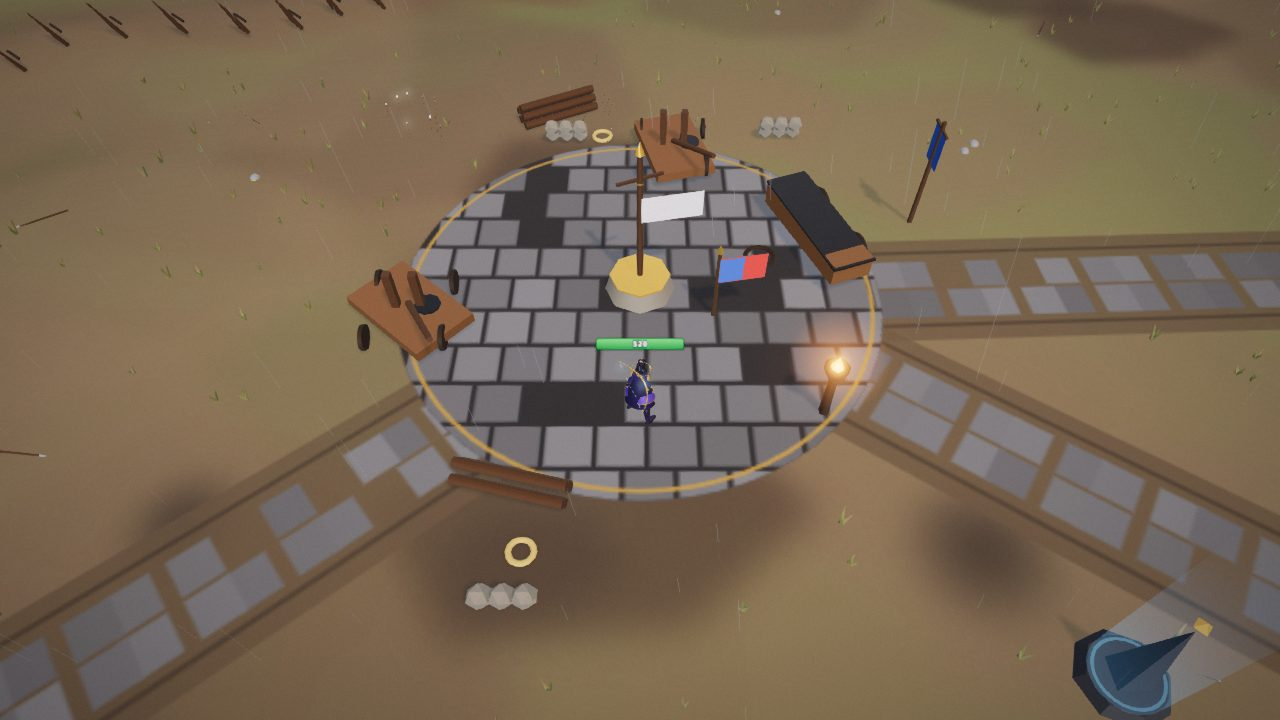
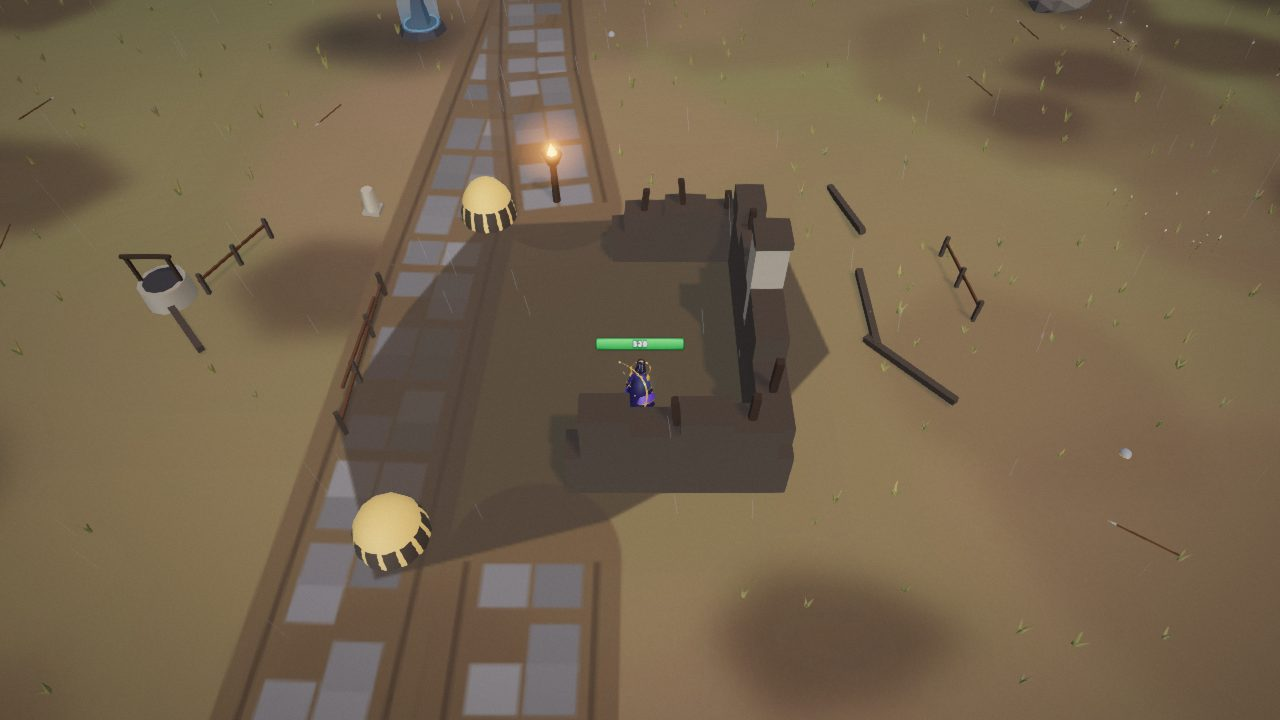
Climb to 50, the War: pictures of every kind of place (hospital, keep, farm, mill, wagons, the siege gate), the war itself (the crimson squad fighting an azure pack) and the stake hedge at the edge; the burned farm's rafters as charred stubs, the hospital's white a shade down; floor 41 run again on 

diff --git a/src/tower/world/warZone.ts b/src/tower/world/warZone.ts
@@ -236,9 +236,9 @@ function materials(own: { dispose(): void }[]) {
   return {
     rockA: mat(0x5e5a58, 0.92, { flatShading: true }), rockB: mat(0x6c6660, 0.92, { flatShading: true }), rockC: mat(0x4c4a4c, 0.92, { flatShading: true }),
     stone: mat(0x7a766e, 0.85), charred: mat(0x3a3430, 0.9), wood: mat(0x4a3220, 0.72), darkWood: mat(0x2c211a, 0.8), plank: mat(0x6b4a2e, 0.75),
-    lacquer: mat(0x1d1b21, 0.45), cream: mat(0xd8cfb4, 0.85, { side: THREE.DoubleSide }), white: mat(0xe8e2d2, 0.85, { side: THREE.DoubleSide }),
+    lacquer: mat(0x1d1b21, 0.45), cream: mat(0xd8cfb4, 0.85, { side: THREE.DoubleSide }), white: mat(0xb8b2a4, 0.9, { side: THREE.DoubleSide }),
     // the tents' canvas a shade down from the cream: lit by the low sun, cream and white tents bloomed to a white glare
-    canvas: mat(0x9e9480, 0.95, { side: THREE.DoubleSide }), linen: mat(0xb4ae9e, 0.95, { side: THREE.DoubleSide }),
+    canvas: mat(0x9e9480, 0.95, { side: THREE.DoubleSide }), linen: mat(0xa49e90, 0.95, { side: THREE.DoubleSide }),
     crimson: mat(0x9a2c2c, 0.8, { side: THREE.DoubleSide }), azure: mat(0x2c4c9a, 0.8, { side: THREE.DoubleSide }),
     steel: mat(0x8a8e98, 0.42, { metalness: 0.55 }), iron: mat(0x2a2c32, 0.55, { metalness: 0.5 }), straw: mat(0xb89a5a, 0.9), sack: mat(0x9a8a66, 0.9),
     gold: mat(0xc9a24a, 0.32, { metalness: 0.85, emissive: 0xffb050, emissiveIntensity: 0.18 }),
@@ -474,8 +474,8 @@ export function buildWarZone(look: WarLook): { group: THREE.Group; update(dt: nu
             kit.add(mat, box(r * 2, hh, len / k + 0.02), x, h * 0.55, z, yaw);
           }
           if (kind === 'farmwall') {
-            // the roof burned away: charred rafters still leaning from the wall's top, and a chimney stack on the long wall
-            for (const t of [0.2, 0.55, 0.85]) kit.add(M.darkWood, box(0.18, 0.18, 4.2).translate(0, 0, 2.1), o.ax + (o.bx - o.ax) * t, h * 0.62, o.az + (o.bz - o.az) * t, yaw + Math.PI / 2 + (rnd() - 0.5) * 0.3, 1, 1, 1, 0.42 + rnd() * 0.25);
+            // the roof burned away: the charred stubs of its uprights on the wall's top, and a chimney stack on the long wall
+            for (const t of [0.15, 0.5, 0.85]) kit.add(M.darkWood, box(0.2, 1.1 + rnd() * 0.9, 0.2), o.ax + (o.bx - o.ax) * t, h * 0.6, o.az + (o.bz - o.az) * t, yaw, 1, 1, 1, (rnd() - 0.5) * 0.25);
             if (len > 7) kit.add(M.stone, box(0.9, h + 1.6, 0.9), mx, 0, mz, yaw).add(M.charred, box(1.0, 0.25, 1.0), mx, h + 1.6, mz, yaw);
           }
         } else {

diff --git a/src/tower/world/warDepth.ts b/src/tower/world/warDepth.ts
@@ -40,7 +40,7 @@ const segDist = (px: number, pz: number, s: Seg) => {
 /** The depth's colours (the heroes' palette, STYLE.md, and the armies' two): each part one flat colour, carried in its vertices. */
 const PALETTE = {
   wood: '#4a3220', dark: '#2c211a', plank: '#6b4a2e', stone: '#7a766e', mile: '#8a8478', rubble: '#6c6860', charred: '#3a3430',
-  steel: '#8a8e98', iron: '#2a2c32', cream: '#d8cfb4', white: '#e8e2d2', straw: '#b89a5a', sack: '#9a8a66', rope: '#b89a5a',
+  steel: '#8a8e98', iron: '#2a2c32', cream: '#d8cfb4', white: '#b8b2a4', straw: '#b89a5a', sack: '#9a8a66', rope: '#b89a5a',
   crimson: '#9a2c2c', azure: '#2c4c9a', leaf: '#3e4a30', bark: '#3a3028', canvas: '#c8bea4', hill: '#56604a',
 } as const;
 type Key = keyof typeof PALETTE;

diff --git a/docs/tower/climb50/war/README.md b/docs/tower/climb50/war/README.md
@@ -12,9 +12,18 @@ on the other, with watch fires on the hilltops, columns of smoke and crows over 
 
 ## Pictures
 
-For every floor: `fNN-camp.jpg` (the game's camera at the camp), `fNN-place.jpg` (the game's camera at the works or battery: a
-paved round, a standard, catapults), `fNN-low.jpg` (a low view north from the camp towards the horizon). From above, the fog
-pushed away: `f41-map.jpg`, `f46-map.jpg`, `f50-map.jpg` (the outline, the siege line, the roads, the places, a far camp).
+For every floor there are three pictures:
+- `fNN-camp.jpg`: the game's camera at the camp.
+- `fNN-place.jpg`: the game's camera at one place, a different kind on each floor: the hill (41), the field hospital (42, 50), the
+  ruined keep (43, 49), the burned farm (44, 48), the wagons (45), the burned mill (46), the siege line's gate (47).
+- `fNN-low.jpg`: a low view north from the camp towards the horizon.
+
+Also:
+- `f42-fight.jpg`, `f48-fight.jpg`: the war itself. The crimson banner taken, four crimson soldiers fight beside the hero against the
+  azure pack at the works.
+- `f47-edge.jpg`: where a walk stops (the earth bank and its hedge of stakes, the grassland beyond).
+- `f41-map.jpg`, `f46-map.jpg`, `f50-map.jpg`: from above with the fog pushed away. They show the outline, the siege line, the roads,
+  the places and an army's camp on the hills.
 
 ## The floors
 
@@ -76,7 +85,7 @@ drawing (`f45/banners-zone.ts`) is no longer used.
 
 | Floor | par / limit (s) | Lyra | Bram |
 |---|---|---|---|
-| 41 | 2200 / 3300 | cleared, 1073 s, 0 falls | cleared, 1225 s, 1 fall (gate 2 tries) |
+| 41 | 2200 / 3300 | cleared, 1092 s, 0 falls | cleared, 1298 s, 2 falls (gate 3 tries) |
 | 42 | 2244 / 3366 | cleared, 1009 s, 0 falls | cleared, 1058 s, 0 falls |
 | 43 | 2288 / 3432 | cleared, 1034 s, 0 falls | cleared, 1128 s, 0 falls |
 | 44 | 2332 / 3498 | cleared, 995 s, 0 falls | cleared, 1061 s, 0 falls |
@@ -87,8 +96,10 @@ drawing (`f45/banners-zone.ts`) is no longer used.
 | 49 | 2552 / 3828 | cleared, 1093 s, 2 falls (gate 3 tries) | cleared, 1055 s, 0 falls |
 | 50 | 2596 / 3894 | cleared, 1028 s, 0 falls; Ash and Ember beaten first try | cleared, 1240 s, 0 falls; Ash and Ember beaten first try |
 
-  No restarts in any of the 20 runs. Every fall was a lost gate duel. The floors take the bot 16 to 21 minutes of game time against
-  the sea's 30 to 41: the four soldiers the banner gives fight beside the hero, so the field's packs go fast.
+  No restarts in any of the 20 runs. Every fall was a lost gate duel. No page errors in any run. The floors take the bot 16 to 22
+  minutes of game time against the sea's 30 to 41 (and the plan's 20 to 30): the four soldiers the banner gives fight beside the
+  hero, so the field's packs go fast. So the par (about twice the bot's time) gives its star away. The levers are data only (pars,
+  the hold's seconds, the sites' mixes, a fifth site) and are left to the lead.
 - Ash and Ember alone at tier 2 (`_pieceRun`, full health): Lyra 2 of 2 (121 s, 127 s), Bram 1 of 2. Entered at 5 % health, it
   comes back a loss in 3 s (a life, not a hang).
 - The other banner (`window.__worldBanner = 1`, azure): floor 44 with Lyra cleared, 956 s, 0 falls, 4 stars.
@@ -105,7 +116,9 @@ drawing (`f45/banners-zone.ts`) is no longer used.
 | phone-4x | gen-46 | 30.5 to 41.0 ms | 120 to 160 | 9.8 to 11.9 | 17.2 to 20.6 | 331 | 424k |
 
   **Floor 46 is slower than floor 1**, by 1.5 to 3 ms on desktop and 5 to 15 ms on the phone profile, and its p99 is higher. What
-  makes it slower is not the drawing: it is the law's own squad (f45/laws.ts). The scene sets the hero down at a new pack every ten
+  makes it slower is not the drawing: it is the law's own squad (f45/laws.ts). Timed in the page at the same four packs, the step
+  is 7 to 14 ms on floor 46 with the squad walking after the hero, 0.1 to 0.2 ms on floor 46 with no banner taken (no squad, and
+  every pack asleep: not a full control), and 0.4 to 0.8 ms on floor 1. The scene sets the hero down at a new pack every ten
   seconds, and the four soldiers of the banner then plan a route across the field through the navigator every frame until they catch
   up (timed in the page: 9 to 17 ms a step while they walk, 1 to 4 ms once they stand by the hero; `nav.ts` `clear` and `plan` are the
   top of the profile, and most of the memory the scene asks for). The same holds on floor 41 (`world-5`: step 11.9 ms on desktop,
@@ -113,12 +126,22 @@ drawing (`f45/banners-zone.ts`) is no longer used.
   the long routes come after a fall (the hero wakes at a waystone) or a door. A fix belongs to the law or the navigator (a squad unit
   far behind could re-plan only every half second, or be set down beside the hero past some distance): not done here (f45/laws.ts is
   the handmade floor's and shared).
-- **The depth's cost, A/B** (gen-46, the same load and the same fight: the depth is built on its own random stream, so the fight's dice
-  do not change when it is switched off), off then on, twice: desktop median 9.8 / 10.1 and 11.2 / 10.2 ms; phone-4x 29.1 / 30.5
-  and 36.0 / 37.2 ms. Within the noise (two runs of the same code differ by up to 7 ms on the phone profile). It costs 16 draw calls
-  and about 70k triangles. What made it slower at first, and was cut: a glow sprite for every far fire (a sprite is a draw call of its
-  own: now the flames are emissive and the bloom lights them), grass blades with a base (now 3 triangles a blade), pebbles, tents as
-  instanced meshes (now merged into the far scenery), a matrix made each frame for each crow.
+- **The longest frame.** Floor 46 has one frame of 1.9 to 2.9 s on desktop (10 to 15 s on the phone profile), floor 1 one of 0.15 s.
+  Read from the tool's `longest`: it is 1.02 s into the scene, 2169 ms of it the simulation's step and 116 ms the drawing. That is the
+  moment the banner is taken and the squad musters (`sides` in f45/laws.ts takes it after 1.2 s of the floor's own clock), and it
+  shows with the depth off too. Most likely it is the squad's first plan across the large zone (the navigator is at the top of the
+  profile), but this was not separated further. A player would feel it as one hitch when taking a banner. Not fixed here (the law and
+  the navigator are shared).
+- **The depth's cost, A/B** (gen-46). The runs played the same load and the same fight: the depth is built on its own random stream,
+  so the fight's dice do not change when it is switched off. Off, then on, twice:
+  - Desktop median 9.8 / 10.1 and 11.2 / 10.2 ms: no consistent difference.
+  - Phone-4x 29.1 / 30.5 and 36.0 / 37.2 ms: the depth about 1.3 ms slower both times, the same sign. Two runs of the same code
+    differ by up to 7 ms there. Whether 1 ms on the phone profile passes the bar is the lead's call.
+  - It costs 16 draw calls and about 70k triangles.
+  - Earlier A/Bs played two different fights (three.js draws on `Math.random` for every object's id), so they said nothing.
+  - What changed the numbers: running the same fight, and grass blades with no base (3 triangles a blade: 484k to 427k triangles in
+    the frame). Taking out the far glow sprites, the pebbles and the far tents as instanced meshes left the draw calls where they
+    were (326 on, 310 off): those were not in the measured frame.
 
 ## What the route runs taught (and the generator now does)
 
@@ -135,6 +158,11 @@ drawing (`f45/banners-zone.ts`) is no longer used.
 - The people, rulers and enemies are the handmade floor's: heroes for people and rulers (as on every made floor), floor 41's
   code-drawn soldiers. New models are the separate model agents' work.
 - The armies' camps, the keep and the hills past the edge are first-pass clean forms in code; the smoke is a stack of soft puffs.
+- The depth's objects get the same three.js ids each time a floor is built (its own random stream, `warZone.ts`). Harmless as far as
+  seen; worth knowing.
+- On floors 48 to 50 the siege line's guard and the keep's ashen pack are led by the same kind (`bearer`), so two elites share a
+  name on the floor.
+- Not done, left for the lead: the War rows in `docs/architecture/tower-worlds.md`, a line in `src/game/changelog.ts`.
 - `pipeline/tools/climb-saves/1-fresh.js` now lists floors 42 to 50 as existing and floor 41's next floor as 42.
 - `src/tower/world/floors/gen/list.ts` is rewritten by the bake tool: it will conflict with the other chapters' at the merge (it
   lists every baked file in the folder; bake again after the merge).
